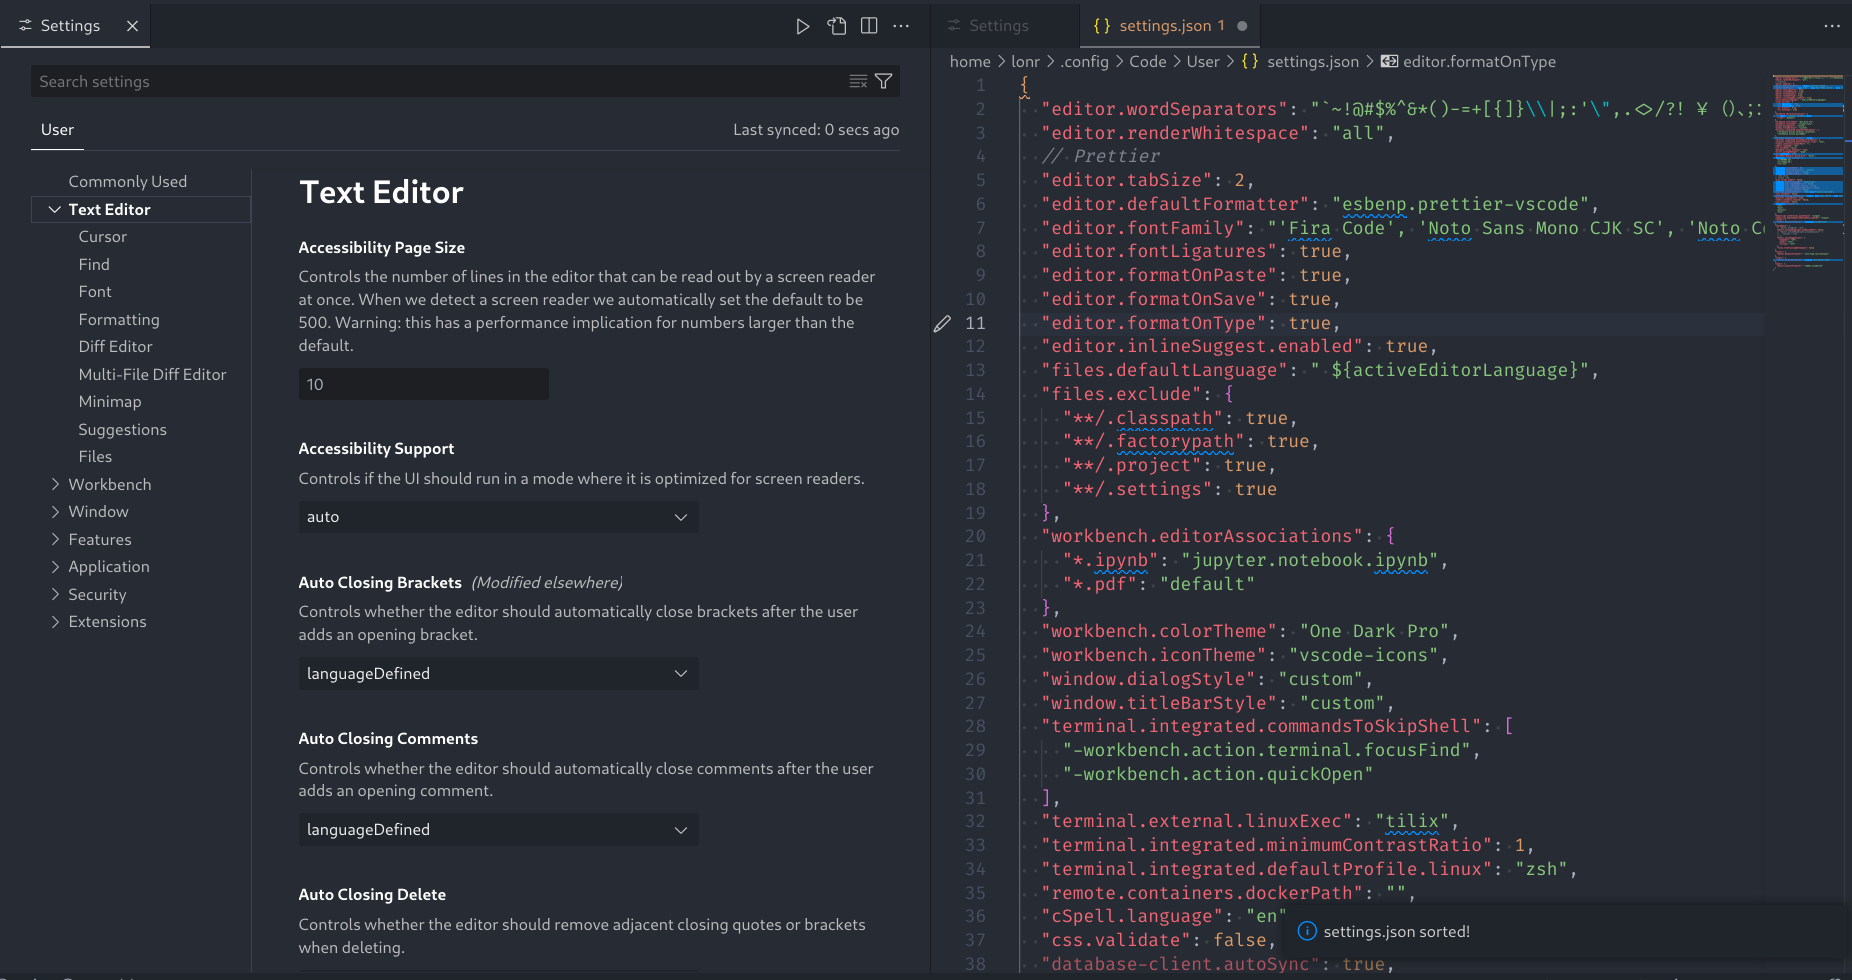
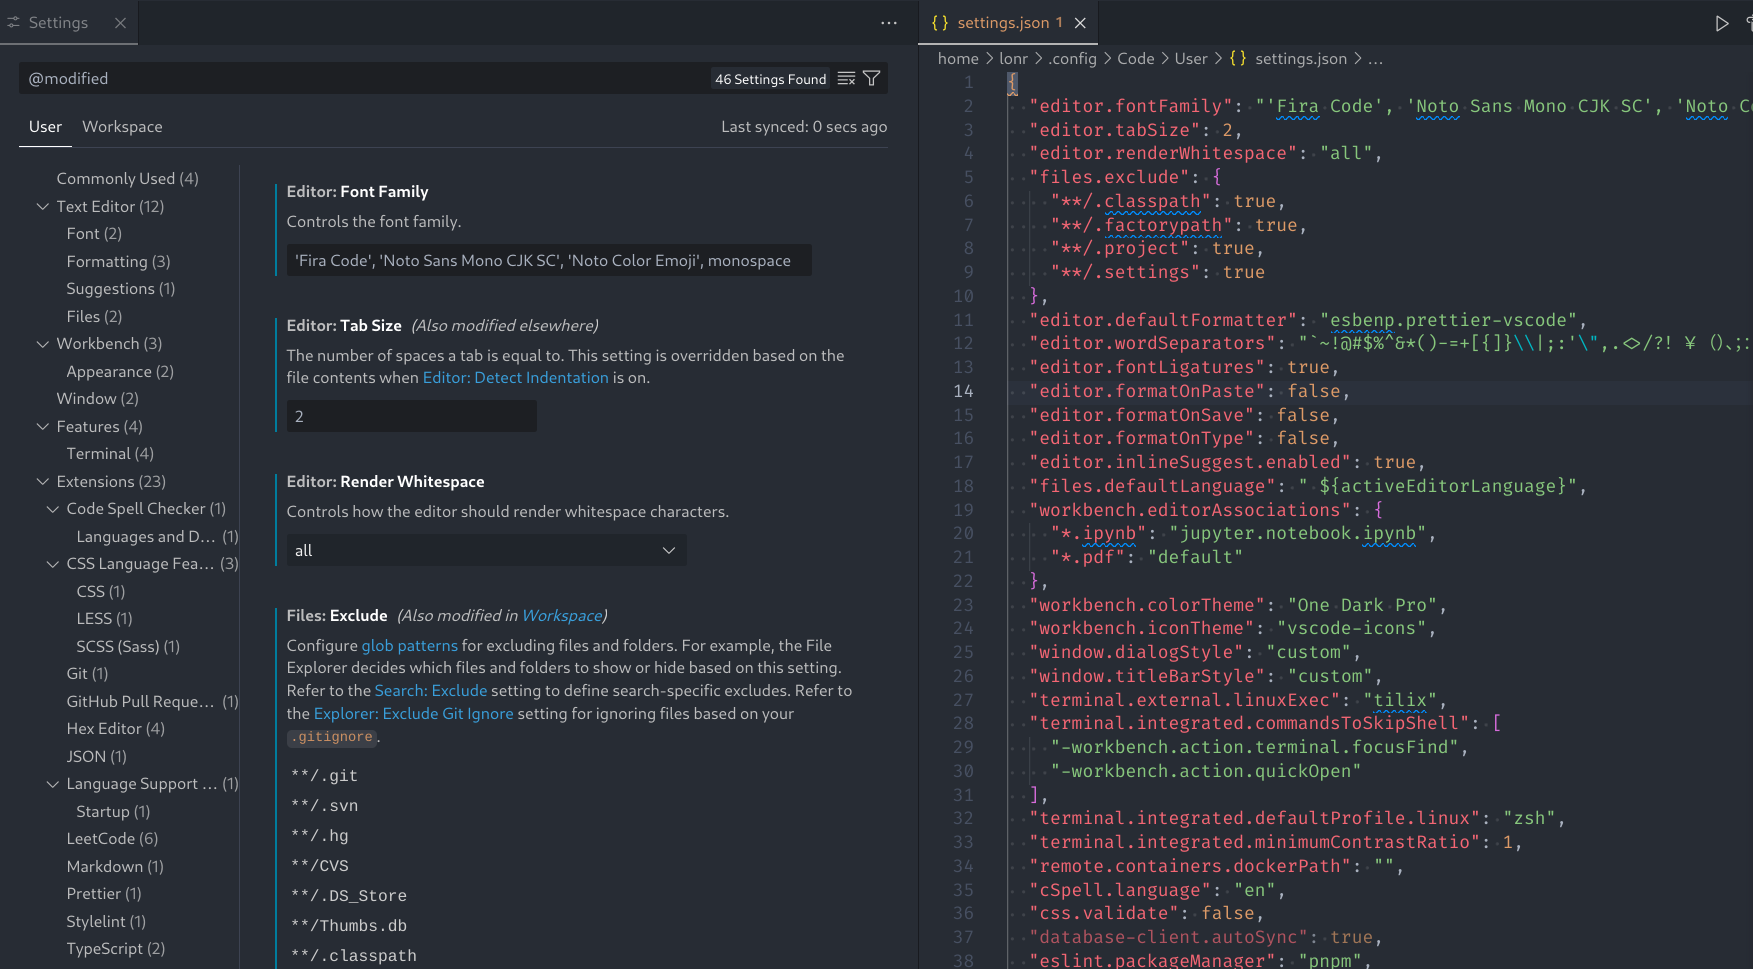
feat: move commonly used settings ahead

diff --git a/src/web/sortSettingsJson.ts b/src/web/sortSettingsJson.ts
@@ -1,5 +1,5 @@
 import { sortJsonc } from 'sort-jsonc';
-import { ITOCEntry, tocData } from './tocTree';
+import { defaultCommonlyUsedSettings as commonlyUsed, ITOCEntry, tocData } from './tocTree';
 import { settingMatches } from './utils';
 
 // For example, [markdown]
@@ -17,8 +17,8 @@ export function sortSettingsJson(json: string): string {
       } else if (isLangSetting(key1) && isLangSetting(key2)) {
         return key1.localeCompare(key2);
       } else {
-        const order1 = calcOrder(tocData, key1);
-        const order2 = calcOrder(tocData, key2);
+        const order1 = calcOrder(commonlyUsed, tocData, key1);
+        const order2 = calcOrder(commonlyUsed, tocData, key2);
         // also handles when both `order1` and `order2` equal `Infinity`.
         if (order1 === order2) {
           return key1.localeCompare(key2);
@@ -30,22 +30,34 @@ export function sortSettingsJson(json: string): string {
   });
 }
 
-type Result = { found: boolean; current: number };
+function calcOrder(
+  commonlyUsed: string[],
+  tocData: ITOCEntry<string>,
+  key: string,
+) {
+  if (commonlyUsed.includes(key)) {
+    return commonlyUsed.indexOf(key);
+  }
+
+  return commonlyUsed.length + calcOrderOfTocData(tocData, key);
+}
 
 const orderCache = new Map<string, number>();
 
-function calcOrder(tocData: ITOCEntry<string>, key: string): number {
+type Result = { found: boolean; current: number };
+
+function calcOrderOfTocData(tocData: ITOCEntry<string>, key: string): number {
   if (orderCache.has(key)) {
     return orderCache.get(key)!;
   }
 
-  const { found, current } = calcOrderHelper(tocData, key);
+  const { found, current } = calcOrderOfTocDataHelper(tocData, key);
   const order = found ? current : Infinity;
   orderCache.set(key, order);
   return order;
 }
 
-function calcOrderHelper(
+function calcOrderOfTocDataHelper(
   tocData: ITOCEntry<string>,
   key: string,
   order: Result = { found: false, current: 0 },
@@ -54,7 +66,7 @@ function calcOrderHelper(
 
   if (tocData.children) {
     for (const child of tocData.children) {
-      const { found, current } = calcOrderHelper(child, key, {
+      const { found, current } = calcOrderOfTocDataHelper(child, key, {
         found: false,
         current: next,
       });

diff --git a/src/web/tocTree.ts b/src/web/tocTree.ts
@@ -14,6 +14,21 @@ export interface ITOCEntry<T> {
   settings?: Array<T>;
 }
 
+export const defaultCommonlyUsedSettings: string[] = [
+  'files.autoSave',
+  'editor.fontSize',
+  'editor.fontFamily',
+  'editor.tabSize',
+  'editor.renderWhitespace',
+  'editor.cursorStyle',
+  'editor.multiCursorModifier',
+  'editor.insertSpaces',
+  'editor.wordWrap',
+  'files.exclude',
+  'files.associations',
+  'workbench.editor.enablePreview',
+];
+
 export const tocData: ITOCEntry<string> = {
   id: 'root',
   label: 'root',
@@ -285,5 +300,3 @@ export const tocData: ITOCEntry<string> = {
     },
   ],
 };
-
-

diff --git a/CHANGELOG.md b/CHANGELOG.md
@@ -4,6 +4,10 @@ All notable changes to the "sort-settings-json" extension will be documented in 
 
 Check [Keep a Changelog](http://keepachangelog.com/) for recommendations on how to structure this file.
 
+## [1.1.0]
+
+- Take [`defaultCommonlyUsedSettings`](https://github.com/microsoft/vscode/blob/8907447ca3ee785647a4cd0836c8914d6e54226d/src/vs/workbench/contrib/preferences/browser/settingsLayout.ts#L17) into account
+
 ## [1.0.2]
 
 - Add cache for the compare function.
